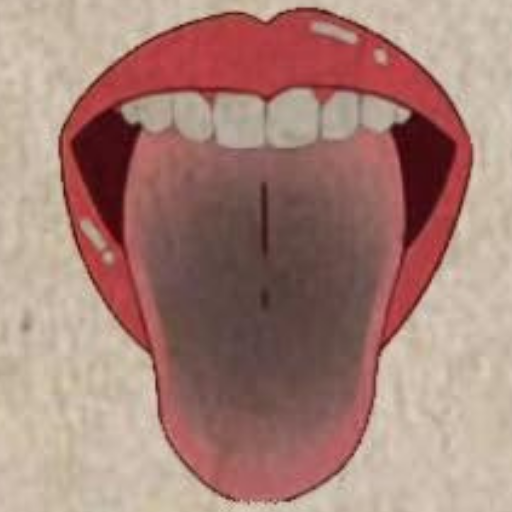
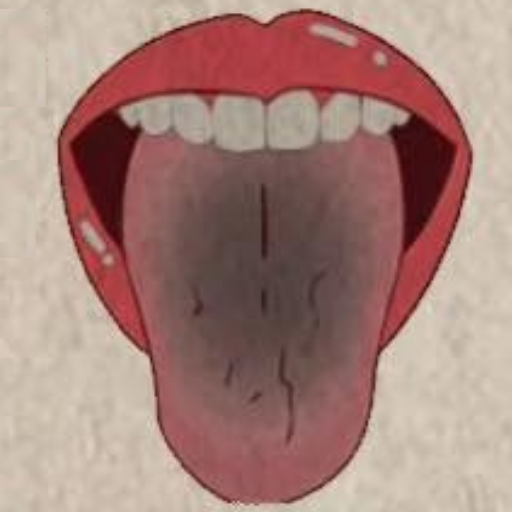
fix: resolve tongue png image path issues and add hei_run_tai png

diff --git a/index.html b/index.html
@@ -396,9 +396,9 @@
                                             <i data-lucide="check" class="w-3 h-3"></i>
                                         </div>
                                     </label>
-                                    <label class="obs-card relative flex flex-col items-center justify-center p-1 sm:p-1.5 rounded-xl border-2 border-slate-100 bg-white cursor-pointer transition hover:border-primary/30 hover:bg-primary/5">
+                                    <label class="obs-card has-image relative flex flex-col items-center justify-center p-1 sm:p-1.5 rounded-xl border-2 border-slate-100 bg-white cursor-pointer transition hover:border-primary/30 hover:bg-primary/5">
                                         <input type="checkbox" value="舌苔色:黑潤苔" class="sr-only">
-                                        <span class="text-lg mb-1">🖤</span>
+                                        <img src="images/tongue/hei_run_tai.png" alt="黑潤苔示意圖" class="obs-thumb" loading="lazy" decoding="async">
                                         <span class="text-xs font-medium text-slate-700 text-center">黑潤苔</span>
                                         <div class="check-icon absolute top-1 right-1 w-4 h-4 text-primary">
                                             <i data-lucide="check" class="w-3 h-3"></i>
